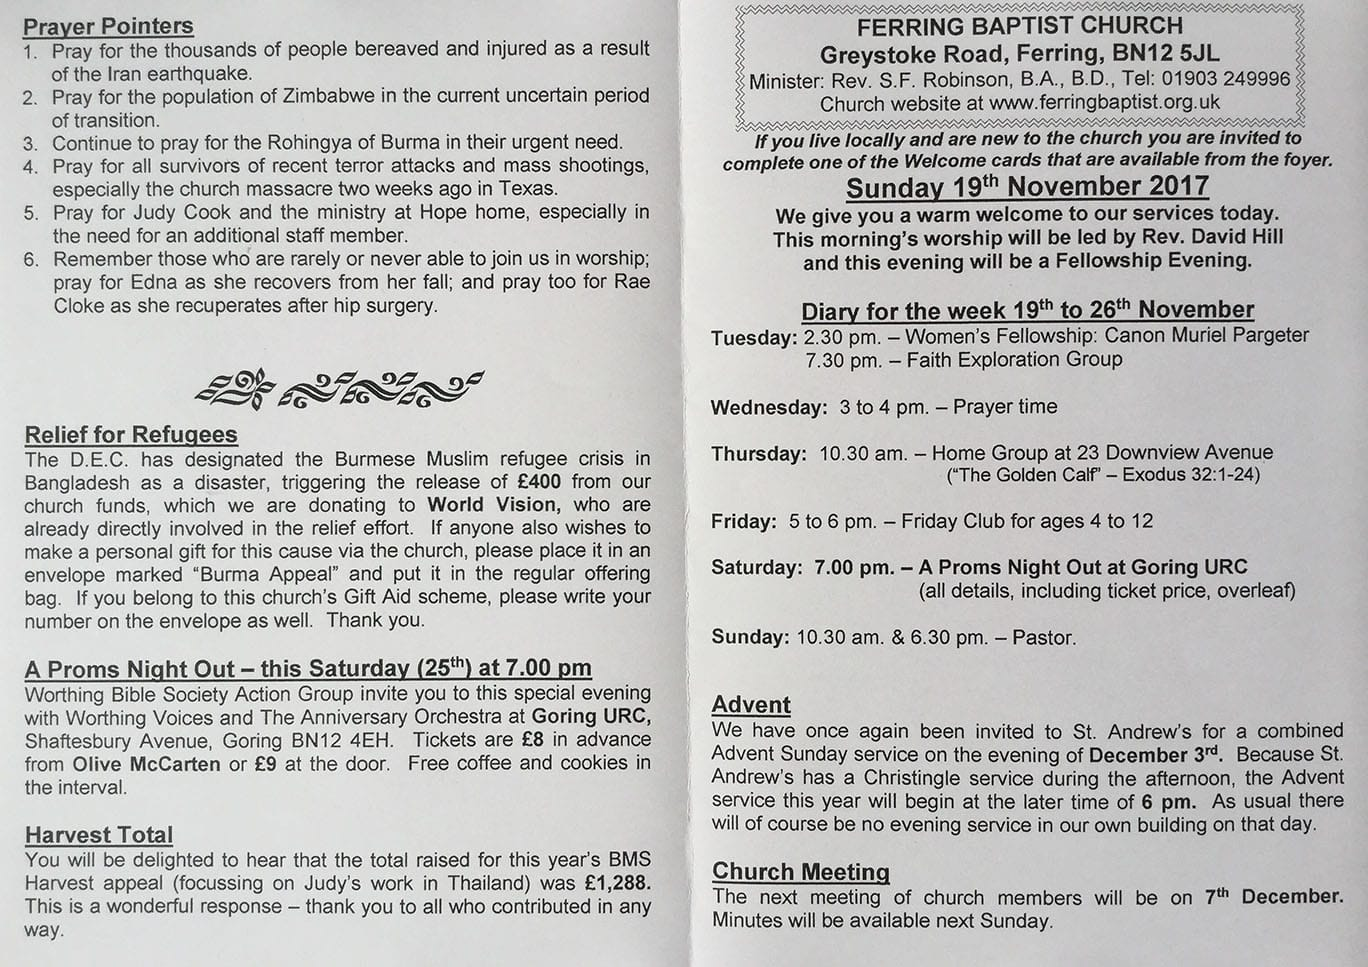
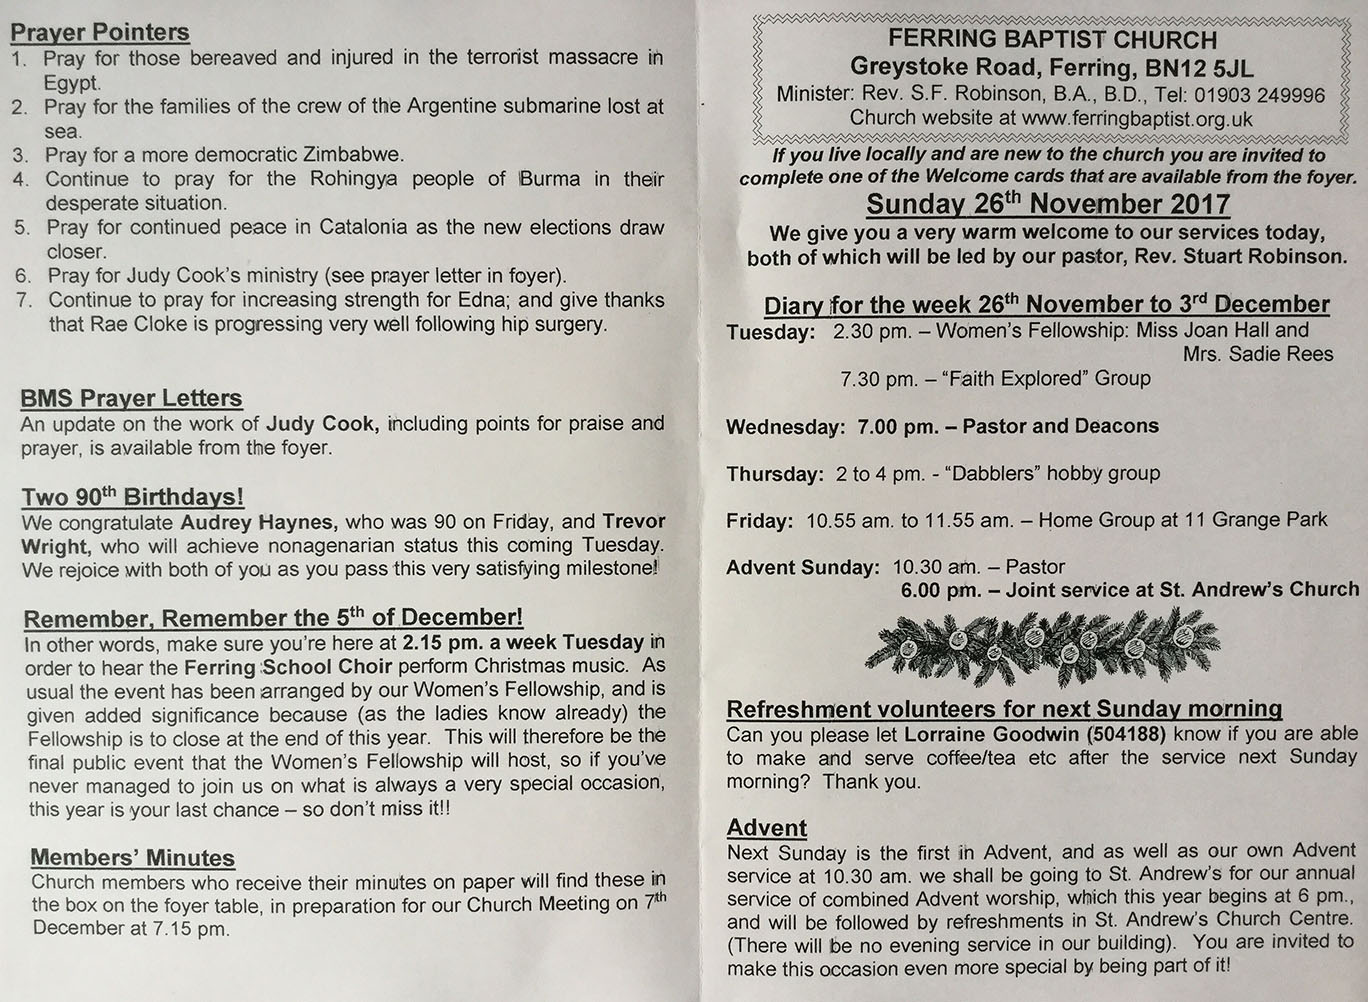
Weekly update

diff --git a/diary.php b/diary.php
@@ -6,7 +6,7 @@
 
 				<p class="centre">(For a long-term look at our church, see the <a href="upcoming.php">Coming Weeks page</a>)</p>
 
-				<p class="centre"><strong>Schedule for the week 19th to 26th Nov</strong></p>
+				<p class="centre"><strong>Schedule for the week 26th November to 3rd December</strong></p>
 
 				<table class="styled" summary="Schedule for events in the coming week(s)">
 					<thead>
@@ -19,7 +19,7 @@
 					<tbody>
 						<tr class="odd">
 							<th scope="row">Tuesday<br />2:30 P.M.</th>
-							<td>Women's Fellowship:<br />Canon Muriel Pargeter</td>
+							<td>Women's Fellowship:<br />Miss Joan Hall &amp;<br />Mrs. Sadie Rees</td>
 							<td></td>
 						</tr>
 						<tr>
@@ -28,24 +28,19 @@
 							<td>All welcome!</td>
 						</tr>
 						<tr class="odd">
-							<th scope="row">Wednesday<br />3:00-4:00 P.M.</th>
-							<td>Prayer time</td>
-							<td></td>
+							<th scope="row">Thursday<br />2:00-4:00 P.M.</th>
+							<td>"Dabblers" Hobby Group</td>
+							<td>All welcome!</td>
 						</tr>
 						<tr>
-							<th scope="row">Thursday<br /> 10:30 A.M.</th>
-							<td>Home Group at<br />Mike &amp; Pat's</td>
+							<th scope="row">Friday<br />10:55 A.M.</th>
+							<td>Home Group at<br />Bryan &amp; Audrey's</td>
 							<td></td>
 						</tr>
 						<tr class="odd">
-							<th scope="row">Friday<br />5:00-6:00 P.M.</th>
-							<td>Friday Club<br />(Ages 4-11)</td>
-							<td></td>
-						</tr>
-						<tr>
-							<th scope="row">Sunday<br />10:30 A.M.<br />6:30 P.M.</th>
-							<td>Sunday Services</td>
-							<td></td>
+							<th scope="row">Sunday<br />10:30 A.M.</th>
+							<td>Advent Sunday Service</td>
+							<td><strong>Joint service at St. Andrew's Church<br />this evening at 6:00</strong></td>
 						</tr>
 					</tbody>
 				</table>
